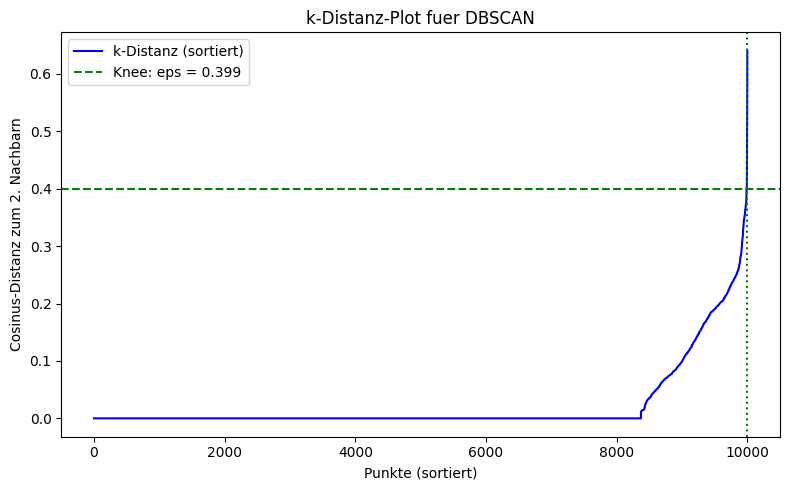
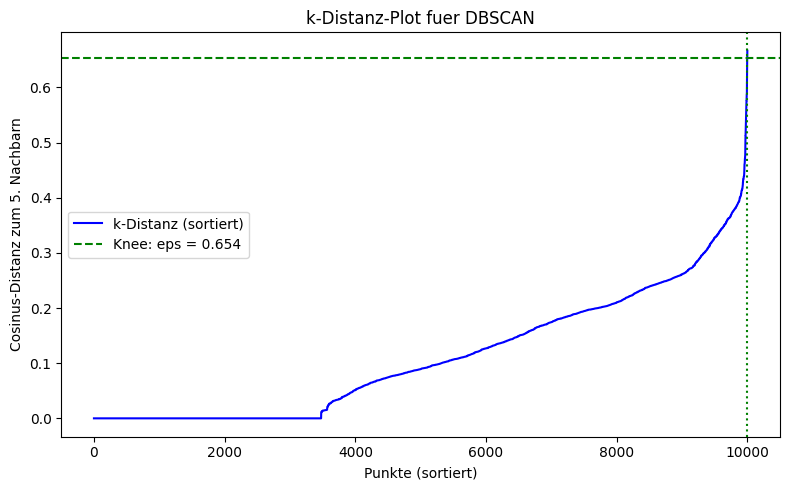
update dbscan desc

diff --git a/content/05_Evaluation.tex b/content/05_Evaluation.tex
@@ -117,7 +117,8 @@ Punkt im Datensatz die Cosinus-Distanz zum $k$-ten Nachbarn berechnet
 (mit $k = $ \texttt{min\_samples} $= 2$), die resultierenden Werte werden
 aufsteigend sortiert und in Abbildung~\ref{fig:dbscan-kdist} dargestellt. Die Distanzen wurden mittels NearestNeighbors \footnote{ Dokumentation zur NearestNeighbors Suche von sklearn \url{https://scikit-learn.org/stable/modules/generated/sklearn.neighbors.NearestNeighbors.html}} von skleann ermittelt und anschließend aufsteigend sortiert, wie es im Listing \ref{lst:dbscan_neighbors} zusehen ist. Anschließend werden mittels der \texttt{find\_shape} Funktion die Parameter (curve und direction) für \texttt{kneed} bestimmt.  
 \begin{lstlisting}[caption={NearestNeighbors für DBSCAN}, label={lst:dbscan_neighbors}]
-DBSCAN_MIN_SAMPLES = 2
+
+DBSCAN_MIN_SAMPLES = 5
 DBSCAN_METRIC = 'cosine'
 
 # Nearest Neighbors auf TF-IDF mit Cosinus-Distanz
@@ -574,9 +575,7 @@ Vollständigkeitswert erklärt.
 Die Standardabweichung von $\pm\,8{,}369$ Prozentpunkten beim ARI ist die
 höchste aller untersuchten Verfahren. Ursache ist die stochastische
 Zentroid-Initialisierung in Verbindung mit dem niedrigen Silhouette-Niveau im
-TF-IDF-Raum (vgl.\ Abb.~\ref{fig:kmeans-silhouette}): Die Cluster liegen
-geometrisch nahe beieinander, sodass unterschiedliche Startbedingungen zu
-deutlich abweichenden Endzuständen führen. Wie in
+TF-IDF-Raum (vgl.\ Abb.~\ref{fig:kmeans-silhouette}). Wie in
 Abschnitt~\ref{sec:kmeans} dargelegt, muss $k$ vor der Ausführung festgelegt
 werden; die hier verwendete datengetriebene Bestimmung ist im
 kontinuierlichen Betrieb mit veränderlicher Datengrundlage nur durch
@@ -631,9 +630,9 @@ Mit dem in Abschnitt~\ref{sec:eval:param:dbscan} datengetrieben ermittelten
 Nachbarschaftsradius $\varepsilon = 0{,}4$ erreicht DBSCAN einen ARI von
 $26{,}085\,\%$ und ein V-Measure von $59{,}905\,\%$ -- den niedrigsten ARI
 aller untersuchten Verfahren (vgl.\ Abschnitt~\ref{sec:eval:vergleich}). Die
-Nullabweichung über alle fünf Durchläufe ist erwartungskonform: DBSCAN
-operiert als Stapelverfahren auf der vollständigen TF-IDF-Matrix und ist
-gegenüber der Eingangsreihenfolge invariant.
+Nullabweichung über alle fünf Durchläufe ist begründet durch die Tatsache, dass DBSCAN
+als Stapelverfahren auf der vollständigen TF-IDF-Matrix arbeitet und 
+gegenüber der Eingangsreihenfolge unabhängig ist.
 
 Die Homogenität von $57{,}391\,\%$ liegt deutlich über dem Wert
 ($14{,}5\,\%$), der mit dem ursprünglich theoretisch motivierten
@@ -652,7 +651,7 @@ zusammenführen, gemischte Cluster nicht.
 Wie in Abschnitt~\ref{sec:dbscan} beschrieben, reagiert DBSCAN empfindlich
 auf ungleichmäßige Dichtverteilungen. Der gemischte Loghub-Datensatz enthält
 Klassen sehr unterschiedlicher Häufigkeit; seltene Templates liefern im
-TF-IDF-Raum zu wenige Kernpunkte und werden als Rauschen (Label $-1$)
+TF-IDF-Raum zu wenige Kernpunkte und werden als Rauschen
 klassifiziert. Diese Rauschpunkte entziehen sich der Evaluation und begrenzen
 die erzielbare Vollständigkeit. Trotz der starken Verbesserung bleibt DBSCAN
 für den kontinuierlichen Betrieb aus denselben Gründen wie K-Means
@@ -912,7 +911,7 @@ aller untersuchten Verfahren.
 \paragraph{Clusteranzahl im Verhältnis zur Ground Truth.}
 Im Einzellauf erzeugt das Verfahren $68$ Cluster für $44$ Ground-Truth-Klassen
 -- eine moderate Übersegmentierung. Diese ist eine direkte Folge des
-strengen \texttt{INITIAL}-Schwellenwerts $0{,}3$, der in Phase~1 nur sehr
+strengen \texttt{INITIAL}-Schwellenwerts $0{,}3$ der in Phase~1 nur sehr
 ähnliche Lognachrichten zu einem Cluster zusammenführt
 (Abschnitt~\ref{sec:real:pgvector}). Phase~2 ergänzt die Clusterbasis um
 weitere Cluster für Lognachrichten, die weder zu einem bestehenden

diff --git a/content/02_clustern_ml.tex b/content/02_clustern_ml.tex
@@ -86,11 +86,13 @@ Dabei bezeichnet $N_{\epsilon}(\mathbf{x})$ die $\epsilon$-Umgebung von $x$, als
     \item Alle Punkte ohne Cluster-Zugehörigkeit gelten als Rauschpunkte.
 \end{enumerate}
 
+
 \paragraph{Parameterwahl.}
-Anders als bei k-Means entfällt zwar die Vorgabe der Cluster-Anzahl $K$, an ihre Stelle treten jedoch die Parameter $\epsilon$ und $\textit{minPts}$ -- DBSCAN tauscht das Problem der Bestimmung von $K$ also gegen das Problem der Bestimmung von $\epsilon$ und $\textit{minPts}$. Eine gängige Heuristik zur Schätzung von $\epsilon$ ist der $k$-Distanz-Graph: Für jeden Punkt wird die Distanz zu seinem $\textit{minPts}$-nächsten Nachbarn berechnet und aufsteigend sortiert aufgetragen; der Wert am Knick (Elbow) dieser Kurve liefert einen geeigneten Schätzwert für $\epsilon$ \cite{Mohammed_Wagner_2020}. Für $\textit{minPts}$ wird in der Literatur häufig $\textit{minPts} \geq d + 1$ als unterer Richtwert genannt. Im Unterschied zu $K$ muss bei dieser Vorgehensweise die resultierende Cluster-Anzahl nicht vorab bekannt sein, was für die kontinuierliche Log-Gruppierung mit unbekannter und wachsender Anzahl an Lognachrichten-Typen vorteilhaft ist; die Bestimmung guter Werte für $\epsilon$ und $\textit{minPts}$ bleibt jedoch ebenso aufwendig wie zuvor die Bestimmung von $K$.
+Anders als bei k-Means entfällt zwar die Vorgabe der Cluster-Anzahl $K$, an ihre Stelle treten jedoch die Parameter $\epsilon$ und $\textit{minPts}$ -- DBSCAN tauscht das Problem der Bestimmung von $K$ also gegen das Problem der Bestimmung von $\epsilon$ und $\textit{minPts}$. Eine gängige Heuristik zur Schätzung von $\epsilon$ ist der $k$-Distanz-Graph: Für jeden Punkt wird die Distanz zu seinem $\textit{minPts}$-nächsten Nachbarn berechnet und aufsteigend sortiert aufgetragen; der Wert am Knick (stärkst Steigung) dieser Kurve liefert einen geeigneten Schätzwert für $\epsilon$ \cite{Mohammed_Wagner_2020}. Im Unterschied zu $K$ muss bei dieser Vorgehensweise die resultierende Cluster-Anzahl nicht vorab bekannt sein, was für die kontinuierliche Log-Gruppierung mit unbekannter und wachsender Anzahl an Lognachrichten-Typen vorteilhaft ist; die Bestimmung guter Werte für $\epsilon$ und $\textit{minPts}$ bleibt jedoch ebenso aufwendig wie zuvor die Bestimmung von $K$.
 
 \paragraph{Effizienz und Limitierungen.}
-Die naive Implementierung bestimmt für jeden der $N$ Datenpunkte dessen $\epsilon$-Umgebung durch einen vollständigen Vergleich mit allen übrigen Punkten ($\mathcal{O}(N)$ je Punkt); durch die rekursive Erweiterung der Cluster über alle Punkte hinweg ergibt sich insgesamt eine Zeitkomplexität von mindestens $\mathcal{O}(N^2)$ \cite{Mohammed_Wagner_2020}. Räumliche Indexstrukturen wie $k$-d-Bäume oder R*-Bäume können die Nachbarschaftssuche auf $\mathcal{O}(N \log N)$ beschleunigen, verlieren ihre Wirksamkeit jedoch mit wachsender Dimensionalität $d$ (Fluch der Dimensionalität) -- ein relevanter Punkt im Hinblick auf die hochdimensionalen Sentence-Embeddings, die in Kapitel~\ref{chap:vek} verwendet werden. Als methodische Limitierung gilt zudem, dass DBSCAN mit einem global festen Wert für $\epsilon$ Cluster stark unterschiedlicher Dichte nicht gleichzeitig korrekt erfassen kann: Ein für dichte Cluster geeigneter Radius klassifiziert dünnere Cluster mitunter vollständig als Rauschen, und umgekehrt.
+ Die hier verwendete Implementierung hat eine Komplexität von $\mathcal{O}(N^2)$ im worst case \cite{ScikitLearnDBSCAN}. 
+ Als methodische Limitierung gilt zudem, dass DBSCAN mit einem global festen Wert für $\epsilon$ Cluster stark unterschiedlicher Dichte nicht gleichzeitig korrekt erfassen kann: Ein für dichte Cluster geeigneter Radius klassifiziert dünnere Cluster mitunter vollständig als Rauschen, und umgekehrt \cite{DatacampDBSCAN}.
 
 \section{Drain3: Effizientes On-Demand-Parsing mittels Baumstrukturen}
 \label{sec:drain3}

diff --git a/content/04_Realisierung.tex b/content/04_Realisierung.tex
@@ -227,8 +227,8 @@ Die praktische Umsetzung ist in Listing~\ref{lst:dbscan-cluster} dargestellt.
 
 \begin{lstlisting}[caption={Clustern mit DBSCAN}, label={lst:dbscan-cluster}]
 # DBSCAN Parameter (Begruendung siehe Abschnitt \ref{sec:eval:param:dbscan})
-DBSCAN_EPS         = 0.4
-DBSCAN_MIN_SAMPLES = 2
+DBSCAN_EPS         = 0.65
+DBSCAN_MIN_SAMPLES = 5
 DBSCAN_METRIC      = 'cosine'
 
 # ===== DBSCAN CLUSTERING =====